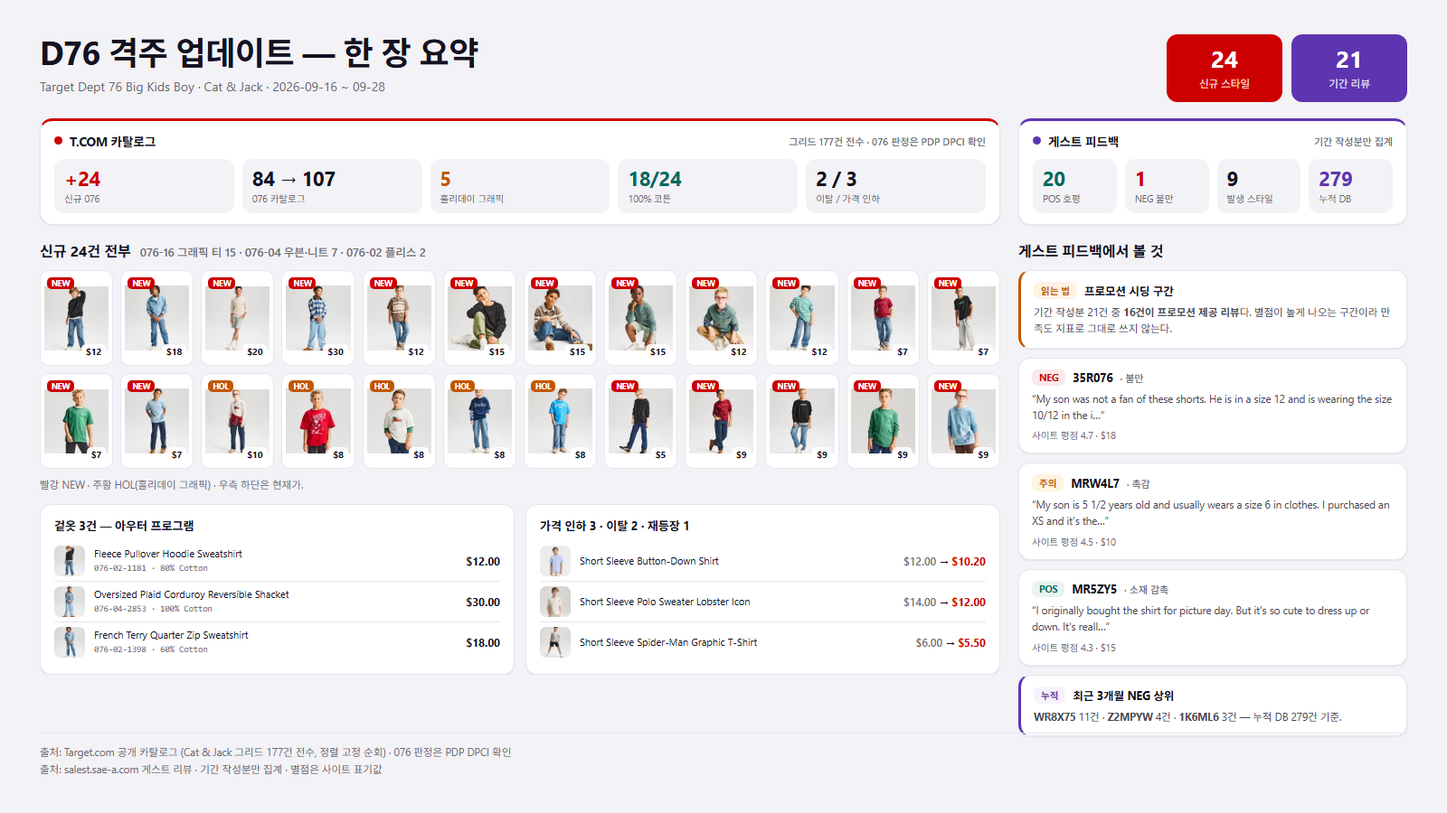
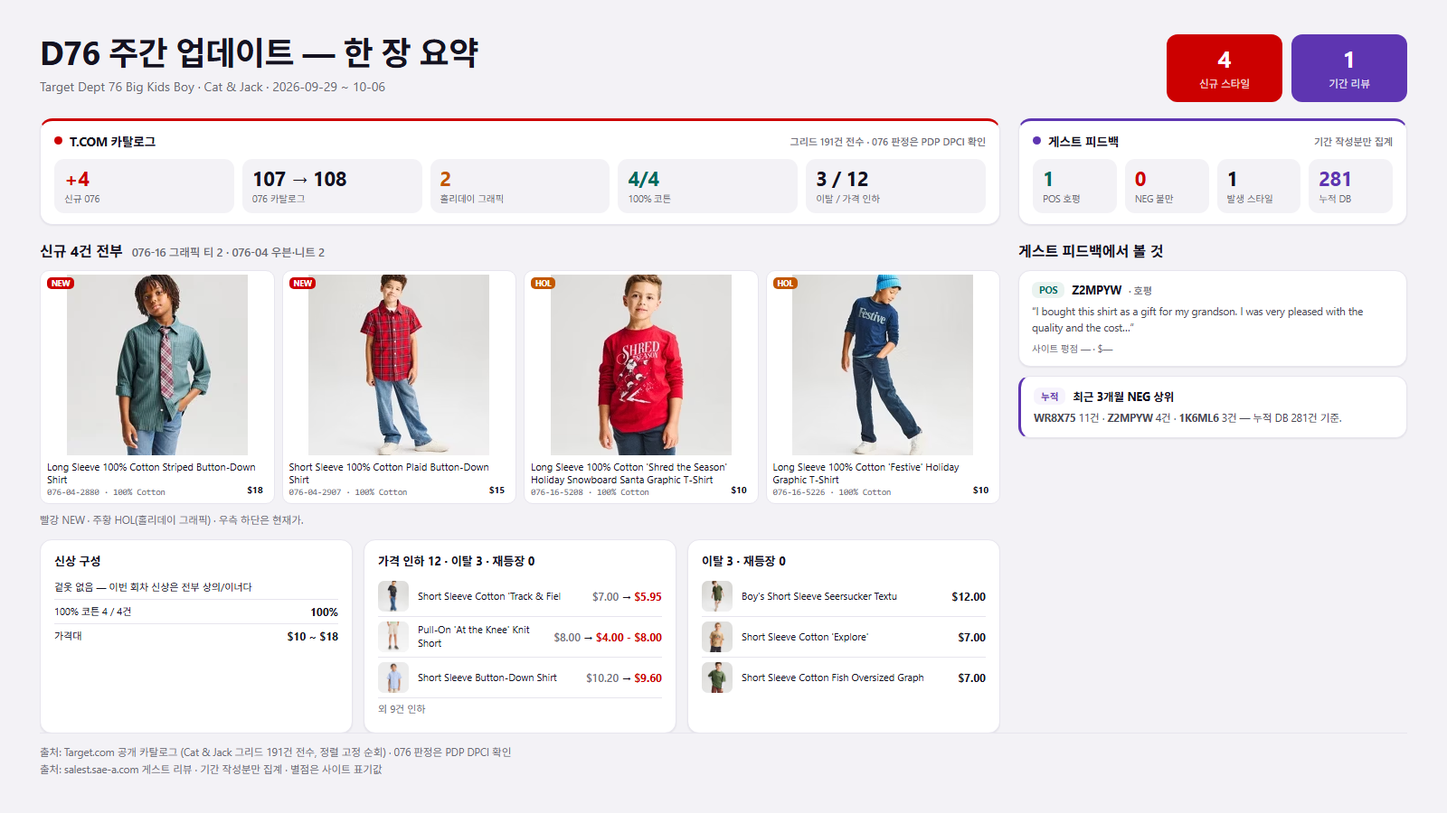
2026-10-06 회차 — Guest Feedback 리포트 + 한 장 요약
GF: Boys(09-29~10-06) · Girls(10-01~10-06) 두 리포트.
  ⚠ 원천에 약 1주일 보고 지연이 있어 기간 작성분이 각 1건뿐이다.
  숨기지 않고 리포트 맨 위에 그 사실과 "건수를 체감 반응으로 읽지 말 것"을 적었다.
  백필은 회차 날짜와 섞이지 않게 분리 표기(Boys 1 · Girls 2).
  경향은 「누적으로 보는 주의 스타일」(최근 3개월 NEG 2건 이상)로 본다.

한 장 요약: reports/bigboys/onepager.png 갱신 (최신 한 장만 유지).
  제목의 '격주/주간'을 실제 간격에서 자동으로 뽑도록 생성기를 고쳤다 —
  박아 두면 1주 회차에서 제목이 사실과 어긋난다.

diff --git a/reports/girls-feedback/Dept32_205_Feedback_Report_2026-10-01_to_2026-10-06.html b/reports/girls-feedback/Dept32_205_Feedback_Report_2026-10-01_to_2026-10-06.html
@@ -1,0 +1,106 @@
+<!DOCTYPE html>
+<html lang="ko">
+<head>
+<meta charset="utf-8">
+<meta name="viewport" content="width=device-width,initial-scale=1">
+<title>D76 · Girls GF 10-01~10-06</title>
+<link rel="icon" href="/Bigkids-Knit/favicon.svg">
+<style>
+:root{--ink:#1d1c22;--body:#4a4954;--sub:#6a6a72;--muted:#6e6d77;--bg:#f3f2f6;--card:#fff;--bar:#1b1b22;--line:#e7e5ee;--tcom:#CC0000;--gf:#5e35b1;--man:#00695c;--tool:#0277bd;--amber:#ef6c00}
+
+body{font-family:-apple-system, "Segoe UI", "Apple SD Gothic Neo", "Noto Sans KR", sans-serif;background:#f3f2f6;margin:0;color:#222}
+.wrap{max-width:1080px;margin:0 auto;padding:20px}
+header{background:#f6f3fc;color:#4527a0;border-radius:14px;padding:26px 30px;margin-bottom:18px}
+header h1{margin:0 0 8px;font-size:22px;color:var(--ink)} header .meta{font-size:13px;color:var(--sub)}
+.kpis{display:grid;grid-template-columns:repeat(auto-fit,minmax(180px,1fr));gap:12px;margin-bottom:20px}
+.kpi{background:#fff;border-radius:14px;padding:16px 18px;box-shadow:0 1px 2px rgba(20,18,30,.06)}
+.kpi.o{border-color:#ef6c00}.kpi.g{border-color:#00695c}.kpi.r{border-color:#CC0000}
+.kpi .v{font-size:24px;font-weight:700}.kpi .l{font-size:12px;color:#666}
+.insight{background:#fff8ee;border-left:4px solid #ef6c00;border-radius:10px;padding:16px 20px;margin-bottom:18px;font-size:14px;line-height:1.7}
+.nav{margin-bottom:18px;line-height:2.2}
+.nav a{display:inline-block;padding:3px 10px;border-radius:20px;font-family:"SF Mono", Consolas, monospace;font-size:12px;text-decoration:none;margin-right:4px}
+.nav a.high{background:#fbe4e4;color:#CC0000}.nav a.medium{background:#fff3cd;color:#856404}.nav a.low{background:#ddedea;color:#0a6e57}
+table.pt{width:100%;border-collapse:collapse;background:#fff;border-radius:10px;overflow:hidden;margin-bottom:18px;font-size:13px}
+table.pt th{background:#ede7f6;color:#4527a0;padding:9px 12px;text-align:left}table.pt td{padding:9px 12px;border-top:1px solid #eee}
+.sgroup{border-radius:16px;margin-bottom:16px;padding:18px 20px;background:#f3f2f6;box-shadow:none}
+.sgroup.pri-high{background:#fdf3f3}.sgroup.pri-medium{background:#fff8ee}.sgroup.pri-low{background:#eef6f5}
+.sg-head{display:flex;gap:14px;align-items:center;margin-bottom:10px}
+.thumb{width:60px;height:60px;border-radius:8px;object-fit:cover;background:#eee}
+.thumb.ph{display:flex;align-items:center;justify-content:center;color:#aaa;font-size:20px}
+.sno{font-family:"SF Mono", Consolas, monospace;font-size:18px;font-weight:700;color:#4527a0}
+.pri{font-size:11px;font-weight:700;padding:3px 8px;border-radius:8px;vertical-align:middle}
+.pri.high{background:#CC0000;color:#fff}.pri.medium{background:#c25700;color:#fff}.pri.low{background:#00695c;color:#fff}
+.chip{font-size:11px;padding:2px 8px;border-radius:10px;margin-right:5px}
+.chip.pos-c{background:#ddedea;color:#0a6e57}.chip.neg-c{background:#fbe4e4;color:#CC0000}
+.chip.tot{background:#ede7f6;color:#4527a0}.chip.avg{background:#e3f2fd;color:#0d47a1}.chip.price{background:#f5f5f5;color:#333}
+.review{border-radius:8px;padding:10px 12px;margin-bottom:8px;font-size:13px}
+.review.pos{background:#f7fbf7}.review.neg{background:#fef7f7}
+.r-meta{display:flex;gap:8px;align-items:center;margin-bottom:4px;font-size:12px}
+.r-date{color:#666}.badge{padding:1px 7px;border-radius:10px;font-size:10px;font-weight:700}
+.badge.pos-bg{background:#ddedea;color:#0a6e57}.badge.neg-bg{background:#fbe4e4;color:#CC0000}
+.r-cat{background:#f0f0f0;padding:1px 7px;border-radius:10px;font-size:10px}
+.stars{color:#c96a00;font-size:12px}.stars .empty{color:#bcbbc6}
+.r-title{font-weight:600;margin-bottom:2px}.r-body{line-height:1.55}
+.r-flex{display:flex;gap:10px}.r-main{flex:1}
+.rp{width:74px;height:74px;object-fit:cover;border-radius:8px}
+.pats{margin-top:5px}.pat{background:#fff3cd;color:#856404;font-size:10px;padding:2px 7px;border-radius:10px;margin-right:4px}
+.cross{margin-top:5px;font-size:11px;color:#555}
+.chip-x{font-family:"SF Mono", Consolas, monospace;background:#ede7f6;color:#4527a0;padding:1px 7px;border-radius:10px;text-decoration:none;font-size:11px;margin-right:3px}
+h2{font-size:17px;margin:24px 0 10px}
+footer{color:#6a6a72;font-size:12px;margin:26px 0 10px;text-align:center}
+:focus-visible{outline:2px solid var(--tool);outline-offset:2px;border-radius:8px}
+.topbar{position:sticky;top:0;z-index:100;background:var(--bar,#1b1b22);color:#fff;font-family:-apple-system,'Segoe UI','Apple SD Gothic Neo','Noto Sans KR',sans-serif;font-size:13px;padding:11px 20px;display:flex;gap:10px;align-items:center;flex-wrap:wrap}.topbar a{color:#fff;text-decoration:none}.topbar .brand{font-weight:700}.topbar .sep{opacity:.3}.topbar .live{margin-left:auto;font-size:12px;opacity:.55}@media(max-width:640px){.topbar{font-size:12px;padding:10px 14px}.topbar .live{display:none}}.fab{position:fixed;right:18px;bottom:18px;z-index:99;width:52px;height:52px;border-radius:50%;background:var(--bar,#1b1b22);color:#fff;display:flex;align-items:center;justify-content:center;font-size:20px;text-decoration:none;box-shadow:0 8px 22px rgba(20,18,30,.11)}
+
+/* 4b — 색 면 안의 리뷰 타일은 그림자 없음 (면 자체가 그룹을 만든다) */
+.sgroup .review{background:#fff;border-radius:14px;box-shadow:none}
+.sgroup .chip{background:#fff}
+
+.eyebrow{font-size:11px;letter-spacing:.16em;font-weight:700;margin-bottom:6px}
+
+.hist{margin-top:10px;border-top:1px solid #e7e5ee;padding-top:10px}
+.hist>summary{cursor:pointer;font-size:12.5px;font-weight:700;color:#4527a0;
+  list-style:none;padding:9px 12px;border-radius:10px;background:#f6f3fc;
+  display:flex;align-items:center;gap:8px}
+.hist>summary::-webkit-details-marker{display:none}
+.hist>summary::before{content:"▸";font-size:11px;transition:transform .15s}
+.hist[open]>summary::before{transform:rotate(90deg)}
+.hist>summary:hover{background:#efe9f9}
+.hist .hcount{margin-left:auto;font-weight:600;color:#6a6a72;font-size:11.5px}
+.hist .review{margin-top:9px}
+.badge.new-bg{background:#f6f3fc;color:#4527a0}
+
+.kpi.girl .v{color:#8e1246}
+.hero-g{background:#fdf1f6}
+.topbar .here{color:#f4a6c4}
+.dept-tag{font-size:10px;font-weight:700;color:#fff;background:#c2185b;border-radius:5px;padding:2px 6px;margin-left:6px}
+.dept-tag.d205{background:#6a1b9a}
+</style>
+</head>
+<body>
+<div class="topbar"><a class="brand" href="/Bigkids-Knit/">📊 Big Kids Hub</a><span class="sep">|</span><a class="here" href="/Bigkids-Knit/reports/girls-feedback/">💬 Girls Guest Feedback</a></div><a class="fab" href="/Bigkids-Knit/" title="Big Kids Hub">📊</a>
+<div class="wrap">
+<header><div class="eyebrow">GIRLS GUEST FEEDBACK · 회차 리포트</div><h1>👧 Dept 32 · 205 게스트 피드백 — 10/01 ~ 10/06</h1><div class="meta">기간: 2026-10-01 ~ 2026-10-06 · 수집일: 2026-10-06 · 브랜드: Cat &amp; Jack</div></header>
+<div class="kpis"><div class="kpi"><div class="v">1건</div><div class="l">기간 내 작성 리뷰 (이 밖에 이전 작성분 2건이 백필로 확인됨)</div></div><div class="kpi o"><div class="v">1개</div><div class="l">기간 내 코멘트 발생 스타일</div></div><div class="kpi g"><div class="v">1건</div><div class="l">POS 호평</div></div><div class="kpi r"><div class="v">0건</div><div class="l">NEG 불만</div></div></div>
+<div class="insight"><b>🔍 이번 회차를 읽는 법</b><br>1. <b>이번 회차는 간격이 1주다.</b> 직전 수집이 2026-09-30 였고 이번이 2026-10-06 다. 평소(격주)의 절반이라 모수 자체가 작다.<br>2. <b>그보다 중요한 건 원천에 보고 지연이 있다는 점이다.</b> 수집 시점 기준 가장 최근 리뷰가 <b>2026-10-04</b> — <b>2일 전</b>이다. 즉 최근 한 주에 달린 리뷰는 <b>아직 시스템에 들어오지 않았다</b>. <b>건수가 적은 것을 "리뷰가 안 달렸다" 로 읽으면 안 된다.</b><br>3. 그래서 이번 회차는 <b>판단 재료가 아니라 적재 기록</b>에 가깝다. 다음 회차(격주)에 이 기간 작성분이 함께 들어온다.<br>4. 누적 DB 는 <b>334건</b>이고, 최근 3개월 기준으로는 159건(POS 119 / NEG 40)이 쌓여 있다 — 경향은 아래 「누적으로 보는 주의 스타일」 로 본다.
+</div>
+<h2>📝 이번 수집분 3건</h2>
+<p class="note" style="margin:-4px 0 10px">기간 내 작성 (2026-10-01 ~ 2026-10-06)</p>
+<div class="sgroup"><div class="sg-head"><div><div class="sno">878MPL</div></div></div><div class="sg-cards"><div class="review "><div class="r-meta"><span class="r-date">26/10/04</span><span class="badge">POS</span><span class="r-cat">Value</span><span class="r-cat">D32</span><span class="stars">★★★★★</span></div><div class="r-flex"><div class="r-main"><div class="r-title">Love it!</div><div class="r-body">My daughter is about a size 10 in everything right now, ordered a Large and it’s the perfect amount of baggy, has some growing room (bonus,) but not too long on the arms! LOVE the print, and the price! Super cute and trendy! Well worth the price!</div></div></div></div></div></div>
+<p class="note" style="margin:14px 0 10px">이전 작성분 — 이번 수집에서 처음 잡힌 백필 2건 (회차 날짜와 섞이지 않게 따로 둔다)</p>
+<div class="sgroup"><div class="sg-head"><div><div class="sno">878MPL</div></div></div><div class="sg-cards"><div class="review "><div class="r-meta"><span class="r-date">26/09/17</span><span class="badge">POS</span><span class="r-cat">Quality</span><span class="r-cat">D32</span><span class="stars">★★★★★</span><span class="badge new-bg">PROMO</span></div><div class="r-flex"><div class="r-main"><div class="r-title">Comfy and versatile everyday sweatshirt</div><div class="r-body">This is a staple sweat shirt that will always be around for my daughter to bring to school as these colder days approach. It’s super soft and great quality with cute simple details with the speckles. The size a medium and fits great on my taller seven year old. The thickness is perfect and I’m super happy with this item!</div></div></div></div></div></div>
+<div class="sgroup"><div class="sg-head"><div><div class="sno">X0E2X8</div></div></div><div class="sg-cards"><div class="review "><div class="r-meta"><span class="r-date">26/09/26</span><span class="badge">POS</span><span class="r-cat">Comfort</span><span class="r-cat">D32</span><span class="stars">★★★★<span class="empty">☆</span></span><span class="badge new-bg">PROMO</span></div><div class="r-flex"><div class="r-main"><div class="r-title">Slightly cropped hooded Amour hoodie</div><div class="r-body">My daughter is 6 years old and is just starting to wear size medium (8) in girls. She’s 45.5 inches tall. This hoodie is a French terry, so it’s not super thick or hot which is great for our Texas weather. The hoodie sits right around her belly button. The shoulders seemed a little big as the seam sat more off the shoulder. She loved the heart on front and “Amour” in light pink floral on the back. It was soft and a comfy hoodie.</div></div></div></div></div></div>
+<h2>⚠ 누적으로 보는 주의 스타일 <span style="font-size:13px;font-weight:400;color:var(--sub,#6a6a72)">(최근 3개월 · NEG 2건 이상)</span></h2>
+<table class="pt"><tr><th>스타일</th><th>NEG</th><th>최근 3개월 전체</th></tr>
+<tr><td>L074Y3</td><td><b style="color:#CC0000">11건</b></td><td>15건</td></tr>
+<tr><td>E760X2</td><td><b style="color:#CC0000">5건</b></td><td>8건</td></tr>
+<tr><td>878MPL</td><td><b style="color:#CC0000">3건</b></td><td>13건</td></tr>
+<tr><td>X0E2X8</td><td><b style="color:#CC0000">2건</b></td><td>19건</td></tr>
+<tr><td>X0664R</td><td><b style="color:#CC0000">2건</b></td><td>2건</td></tr>
+<tr><td>0L2L42</td><td><b style="color:#CC0000">2건</b></td><td>5건</td></tr>
+<tr><td>L0GPYX</td><td><b style="color:#CC0000">2건</b></td><td>17건</td></tr>
+<tr><td>71LGL6</td><td><b style="color:#CC0000">2건</b></td><td>10건</td></tr>
+</table>
+<div class="note" style="margin-top:26px">출처: salest.sae-a.com 게스트 리뷰 (Dept 32 · 205, 수집일 2026-10-06) · 적재 기준: NEG 전체 + POS 본문 30자 이상 · 누적 DB 334행<br>⚠ 원천의 가장 최근 리뷰가 2026-10-04 다 — 약 1주일의 보고 지연이 있다. 건수를 그대로 체감 반응으로 읽지 말 것.<br>중복 제거 키에서 프로모션 접두사를 떼도록 이번 회차에 고쳤다 — 같은 스타일·같은 날짜의 프로모션 리뷰가 1건으로 뭉개지던 문제였다.</div>
+</div>
+</body>
+</html>

diff --git a/reports/feedback/Dept76_Feedback_Report_2026-09-29_to_2026-10-06.html b/reports/feedback/Dept76_Feedback_Report_2026-09-29_to_2026-10-06.html
@@ -1,0 +1,94 @@
+<!DOCTYPE html>
+<html lang="ko">
+<head>
+<meta charset="utf-8">
+<meta name="viewport" content="width=device-width,initial-scale=1">
+<title>D76 · GF 09-29~10-06</title>
+<link rel="icon" href="/Bigkids-Knit/favicon.svg">
+<style>
+:root{--ink:#1d1c22;--body:#4a4954;--sub:#6a6a72;--muted:#6e6d77;--bg:#f3f2f6;--card:#fff;--bar:#1b1b22;--line:#e7e5ee;--tcom:#CC0000;--gf:#5e35b1;--man:#00695c;--tool:#0277bd;--amber:#ef6c00}
+
+body{font-family:-apple-system, "Segoe UI", "Apple SD Gothic Neo", "Noto Sans KR", sans-serif;background:#f3f2f6;margin:0;color:#222}
+.wrap{max-width:1080px;margin:0 auto;padding:20px}
+header{background:#f6f3fc;color:#4527a0;border-radius:14px;padding:26px 30px;margin-bottom:18px}
+header h1{margin:0 0 8px;font-size:22px;color:var(--ink)} header .meta{font-size:13px;color:var(--sub)}
+.kpis{display:grid;grid-template-columns:repeat(auto-fit,minmax(180px,1fr));gap:12px;margin-bottom:20px}
+.kpi{background:#fff;border-radius:14px;padding:16px 18px;box-shadow:0 1px 2px rgba(20,18,30,.06)}
+.kpi.o{border-color:#ef6c00}.kpi.g{border-color:#00695c}.kpi.r{border-color:#CC0000}
+.kpi .v{font-size:24px;font-weight:700}.kpi .l{font-size:12px;color:#666}
+.insight{background:#fff8ee;border-left:4px solid #ef6c00;border-radius:10px;padding:16px 20px;margin-bottom:18px;font-size:14px;line-height:1.7}
+.nav{margin-bottom:18px;line-height:2.2}
+.nav a{display:inline-block;padding:3px 10px;border-radius:20px;font-family:"SF Mono", Consolas, monospace;font-size:12px;text-decoration:none;margin-right:4px}
+.nav a.high{background:#fbe4e4;color:#CC0000}.nav a.medium{background:#fff3cd;color:#856404}.nav a.low{background:#ddedea;color:#0a6e57}
+table.pt{width:100%;border-collapse:collapse;background:#fff;border-radius:10px;overflow:hidden;margin-bottom:18px;font-size:13px}
+table.pt th{background:#ede7f6;color:#4527a0;padding:9px 12px;text-align:left}table.pt td{padding:9px 12px;border-top:1px solid #eee}
+.sgroup{border-radius:16px;margin-bottom:16px;padding:18px 20px;background:#f3f2f6;box-shadow:none}
+.sgroup.pri-high{background:#fdf3f3}.sgroup.pri-medium{background:#fff8ee}.sgroup.pri-low{background:#eef6f5}
+.sg-head{display:flex;gap:14px;align-items:center;margin-bottom:10px}
+.thumb{width:60px;height:60px;border-radius:8px;object-fit:cover;background:#eee}
+.thumb.ph{display:flex;align-items:center;justify-content:center;color:#aaa;font-size:20px}
+.sno{font-family:"SF Mono", Consolas, monospace;font-size:18px;font-weight:700;color:#4527a0}
+.pri{font-size:11px;font-weight:700;padding:3px 8px;border-radius:8px;vertical-align:middle}
+.pri.high{background:#CC0000;color:#fff}.pri.medium{background:#c25700;color:#fff}.pri.low{background:#00695c;color:#fff}
+.chip{font-size:11px;padding:2px 8px;border-radius:10px;margin-right:5px}
+.chip.pos-c{background:#ddedea;color:#0a6e57}.chip.neg-c{background:#fbe4e4;color:#CC0000}
+.chip.tot{background:#ede7f6;color:#4527a0}.chip.avg{background:#e3f2fd;color:#0d47a1}.chip.price{background:#f5f5f5;color:#333}
+.review{border-radius:8px;padding:10px 12px;margin-bottom:8px;font-size:13px}
+.review.pos{background:#f7fbf7}.review.neg{background:#fef7f7}
+.r-meta{display:flex;gap:8px;align-items:center;margin-bottom:4px;font-size:12px}
+.r-date{color:#666}.badge{padding:1px 7px;border-radius:10px;font-size:10px;font-weight:700}
+.badge.pos-bg{background:#ddedea;color:#0a6e57}.badge.neg-bg{background:#fbe4e4;color:#CC0000}
+.r-cat{background:#f0f0f0;padding:1px 7px;border-radius:10px;font-size:10px}
+.stars{color:#c96a00;font-size:12px}.stars .empty{color:#bcbbc6}
+.r-title{font-weight:600;margin-bottom:2px}.r-body{line-height:1.55}
+.r-flex{display:flex;gap:10px}.r-main{flex:1}
+.rp{width:74px;height:74px;object-fit:cover;border-radius:8px}
+.pats{margin-top:5px}.pat{background:#fff3cd;color:#856404;font-size:10px;padding:2px 7px;border-radius:10px;margin-right:4px}
+.cross{margin-top:5px;font-size:11px;color:#555}
+.chip-x{font-family:"SF Mono", Consolas, monospace;background:#ede7f6;color:#4527a0;padding:1px 7px;border-radius:10px;text-decoration:none;font-size:11px;margin-right:3px}
+h2{font-size:17px;margin:24px 0 10px}
+footer{color:#6a6a72;font-size:12px;margin:26px 0 10px;text-align:center}
+:focus-visible{outline:2px solid var(--tool);outline-offset:2px;border-radius:8px}
+.topbar{position:sticky;top:0;z-index:100;background:var(--bar,#1b1b22);color:#fff;font-family:-apple-system,'Segoe UI','Apple SD Gothic Neo','Noto Sans KR',sans-serif;font-size:13px;padding:11px 20px;display:flex;gap:10px;align-items:center;flex-wrap:wrap}.topbar a{color:#fff;text-decoration:none}.topbar .brand{font-weight:700}.topbar .sep{opacity:.3}.topbar .live{margin-left:auto;font-size:12px;opacity:.55}@media(max-width:640px){.topbar{font-size:12px;padding:10px 14px}.topbar .live{display:none}}.fab{position:fixed;right:18px;bottom:18px;z-index:99;width:52px;height:52px;border-radius:50%;background:var(--bar,#1b1b22);color:#fff;display:flex;align-items:center;justify-content:center;font-size:20px;text-decoration:none;box-shadow:0 8px 22px rgba(20,18,30,.11)}
+
+/* 4b — 색 면 안의 리뷰 타일은 그림자 없음 (면 자체가 그룹을 만든다) */
+.sgroup .review{background:#fff;border-radius:14px;box-shadow:none}
+.sgroup .chip{background:#fff}
+
+.eyebrow{font-size:11px;letter-spacing:.16em;font-weight:700;margin-bottom:6px}
+
+.hist{margin-top:10px;border-top:1px solid #e7e5ee;padding-top:10px}
+.hist>summary{cursor:pointer;font-size:12.5px;font-weight:700;color:#4527a0;
+  list-style:none;padding:9px 12px;border-radius:10px;background:#f6f3fc;
+  display:flex;align-items:center;gap:8px}
+.hist>summary::-webkit-details-marker{display:none}
+.hist>summary::before{content:"▸";font-size:11px;transition:transform .15s}
+.hist[open]>summary::before{transform:rotate(90deg)}
+.hist>summary:hover{background:#efe9f9}
+.hist .hcount{margin-left:auto;font-weight:600;color:#6a6a72;font-size:11.5px}
+.hist .review{margin-top:9px}
+.badge.new-bg{background:#f6f3fc;color:#4527a0}
+</style>
+</head>
+<body>
+<div class="topbar"><a class="brand" href="/Bigkids-Knit/">📊 Big Kids Hub</a><span class="sep">|</span><a class="here" href="/Bigkids-Knit/reports/feedback/">💬 Guest Feedback 목록</a></div><a class="fab" href="/Bigkids-Knit/" title="Big Kids Hub">📊</a>
+<div class="wrap">
+<header><div class="eyebrow">GUEST FEEDBACK · 회차 리포트</div><h1>📍 Dept 76 게스트 피드백 — 09/29 ~ 10/06</h1><div class="meta">기간: 2026-09-29 ~ 2026-10-06 · 수집일: 2026-10-06 · 브랜드: Cat &amp; Jack</div></header>
+<div class="kpis"><div class="kpi"><div class="v">1건</div><div class="l">기간 내 작성 리뷰 (이 밖에 이전 작성분 1건이 백필로 확인됨)</div></div><div class="kpi o"><div class="v">1개</div><div class="l">기간 내 코멘트 발생 스타일</div></div><div class="kpi g"><div class="v">1건</div><div class="l">POS 호평</div></div><div class="kpi r"><div class="v">0건</div><div class="l">NEG 불만</div></div></div>
+<div class="insight"><b>🔍 이번 회차를 읽는 법</b><br>1. <b>이번 회차는 간격이 1주다.</b> 직전 수집이 2026-09-28 였고 이번이 2026-10-06 다. 평소(격주)의 절반이라 모수 자체가 작다.<br>2. <b>그보다 중요한 건 원천에 보고 지연이 있다는 점이다.</b> 수집 시점 기준 가장 최근 리뷰가 <b>2026-10-01</b> — <b>5일 전</b>이다. 즉 최근 한 주에 달린 리뷰는 <b>아직 시스템에 들어오지 않았다</b>. <b>건수가 적은 것을 "리뷰가 안 달렸다" 로 읽으면 안 된다.</b><br>3. 그래서 이번 회차는 <b>판단 재료가 아니라 적재 기록</b>에 가깝다. 다음 회차(격주)에 이 기간 작성분이 함께 들어온다.<br>4. 누적 DB 는 <b>281건</b>이고, 최근 3개월 기준으로는 167건(POS 137 / NEG 30)이 쌓여 있다 — 경향은 아래 「누적으로 보는 주의 스타일」 로 본다.
+</div>
+<h2>📝 이번 수집분 2건</h2>
+<p class="note" style="margin:-4px 0 10px">기간 내 작성 (2026-09-29 ~ 2026-10-06)</p>
+<div class="sgroup"><div class="sg-head"><div><div class="sno">Z2MPYW</div></div></div><div class="sg-cards"><div class="review "><div class="r-meta"><span class="r-date">26/10/01</span><span class="badge">POS</span><span class="r-cat">Value</span><span class="r-cat">D76</span><span class="stars">★★★★★</span></div><div class="r-flex"><div class="r-main"><div class="r-body">I bought this shirt as a gift for my grandson. I was very pleased with the quality and the cost. He loved the shirt.</div></div></div></div></div></div>
+<p class="note" style="margin:14px 0 10px">이전 작성분 — 이번 수집에서 처음 잡힌 백필 1건 (회차 날짜와 섞이지 않게 따로 둔다)</p>
+<div class="sgroup"><div class="sg-head"><div><div class="sno">35R076</div></div></div><div class="sg-cards"><div class="review "><div class="r-meta"><span class="r-date">26/09/23</span><span class="badge">POS</span><span class="r-cat">Comfort</span><span class="r-cat">D76</span><span class="stars">★★★★★</span><span class="badge new-bg">PROMO</span></div><div class="r-flex"><div class="r-main"><div class="r-title">Very comfortable basketball shorts</div><div class="r-body">I bought these basketball shorts for my 4 year old son who weighs 33lbs and is wearing a size 4/5. They are a tad bit big on him- but they fit him fine in the waist, they’re just a bit long. They are a relaxed fit. They were easy to pull on and off and he could dress himself. The material is lightweight and breathable with the mesh holes. These are great for sports, or even sleeping in at night.</div></div></div></div></div></div>
+<h2>⚠ 누적으로 보는 주의 스타일 <span style="font-size:13px;font-weight:400;color:var(--sub,#6a6a72)">(최근 3개월 · NEG 2건 이상)</span></h2>
+<table class="pt"><tr><th>스타일</th><th>NEG</th><th>최근 3개월 전체</th></tr>
+<tr><td>WR8X75</td><td><b style="color:#CC0000">11건</b></td><td>14건</td></tr>
+<tr><td>Z2MPYW</td><td><b style="color:#CC0000">4건</b></td><td>18건</td></tr>
+<tr><td>1K6ML6</td><td><b style="color:#CC0000">3건</b></td><td>12건</td></tr>
+</table>
+<div class="note" style="margin-top:26px">출처: salest.sae-a.com 게스트 리뷰 (Dept 76, 수집일 2026-10-06) · 적재 기준: NEG 전체 + POS 본문 30자 이상 · 누적 DB 281행<br>⚠ 원천의 가장 최근 리뷰가 2026-10-01 다 — 약 1주일의 보고 지연이 있다. 건수를 그대로 체감 반응으로 읽지 말 것.<br>중복 제거 키에서 프로모션 접두사를 떼도록 이번 회차에 고쳤다 — 같은 스타일·같은 날짜의 프로모션 리뷰가 1건으로 뭉개지던 문제였다.</div>
+</div>
+</body>
+</html>

diff --git a/reports/girls-feedback/index.html b/reports/girls-feedback/index.html
@@ -60,8 +60,9 @@ td.n,th.n{text-align:right;font-variant-numeric:tabular-nums}
 <a class="fab" href="/Bigkids-Knit/" title="Big Kids Hub">📊</a>
 <div class="wrap">
 <div class="hero"><div class="eyebrow">GIRLS GUEST FEEDBACK · 격주 트래킹</div><h1>💬 Girls 게스트 피드백</h1><div class="meta">salest.sae-a.com 게스트 리뷰 · Dept 32 · 205 · POS/NEG · 패턴 연계성 · 스타일별 코멘트</div></div>
-<h2>최신 회차</h2>
-<a class="round" href="Dept32_205_Feedback_Report_2026-04-01_to_2026-09-30.html"><div class="head"><div class="t">2026-09-30 · 기준선</div><span class="latest">LATEST</span></div><div class="d">첫 수집 — 최근 6개월치(4/1~9/30)를 한 번에 쌓았습니다. 다음 회차부터는 직전 수집 이후 작성분만 다룹니다.</div><div class="foot"><div><b>331</b><span>리뷰</span></div><div><b>65</b><span>스타일</span></div><div><b>255</b><span>POS</span></div><div><b>76</b><span>NEG</span></div></div></a>
+<h2>회차</h2>
+<a class="round" href="Dept32_205_Feedback_Report_2026-10-01_to_2026-10-06.html"><div class="head"><div class="t">2026-10-01 ~ 10-06</div><span class="latest">LATEST</span></div><div class="d">1주 회차 · 기간 작성 1건 + 백필 2건 — 원천에 약 1주일 보고 지연이 있어 모수가 작다</div><div class="foot"><div><b>1</b><span>기간 작성</span></div><div><b>2</b><span>백필</span></div><div><b>0</b><span>NEG</span></div><div><b>334</b><span>누적 DB</span></div></div></a>
+<a class="round" href="Dept32_205_Feedback_Report_2026-04-01_to_2026-09-30.html"><div class="head"><div class="t">2026-09-30 · 기준선</div></div><div class="d">첫 수집 — 최근 6개월치(4/1~9/30)를 한 번에 쌓았습니다. 다음 회차부터는 직전 수집 이후 작성분만 다룹니다.</div><div class="foot"><div><b>331</b><span>리뷰</span></div><div><b>65</b><span>스타일</span></div><div><b>255</b><span>POS</span></div><div><b>76</b><span>NEG</span></div></div></a>
 <div class="note">적재 기준은 Boys 와 같습니다 — NEG 전체 + POS 본문 30자 이상, 키 (스타일·작성일·본문 앞 60자)로 중복 제거.<br>프로모션 제공 리뷰가 섞여 있어 평균 별점을 그대로 만족도로 읽지 않습니다.</div>
 </div>
 </body>

diff --git a/reports/feedback/index.html b/reports/feedback/index.html
@@ -84,6 +84,7 @@ h2{font-size:16px;font-weight:700;color:var(--ink);margin:26px 2px 12px}
 </div>
 
 <h2>상시 대시보드</h2>
+<a class="round" href="Dept76_Feedback_Report_2026-09-29_to_2026-10-06.html"><div class="head"><div class="t">2026-09-29 ~ 10-06</div><span class="latest">LATEST</span></div><div class="d">1주 회차 · 기간 작성 1건 + 백필 1건 — 원천에 약 1주일 보고 지연이 있어 모수가 작다</div><div class="foot"><div><b>1</b><span>기간 작성</span></div><div><b>1</b><span>백필</span></div><div><b>0</b><span>NEG</span></div><div><b>281</b><span>누적 DB</span></div></div></a>
 <a class="round" href="Dept76_Feedback_Brief.html">
   <div class="head">
     <div class="t">📌 누적 브리핑</div>
@@ -96,7 +97,7 @@ h2{font-size:16px;font-weight:700;color:var(--ink);margin:26px 2px 12px}
 <a class="round" href="Dept76_Feedback_Report_2026-09-16_to_2026-09-28.html">
   <div class="head">
     <div class="t">2026-09-16 ~ 09-28</div>
-    <span class="latest">LATEST</span>
+    
   </div>
   <div class="d">신규 가을 스타일에 프로모션 리뷰 집중 · 주의: 35R076 메시 촉감 · P6P7YE 저지 비침</div>
   <div class="foot">

diff --git a/reports/bigboys/index.html b/reports/bigboys/index.html
@@ -121,7 +121,7 @@ h2{font-size:16px;font-weight:700;color:var(--ink);margin:26px 2px 12px}
   <a href="onepager.png" target="_blank" rel="noopener"
      title="원본 크기로 열기 (1600&times;900)">
     <img src="onepager.png" width="1600" height="900"
-         alt="2026-09-28 회차 한 장 요약 — T.COM 신상 24건과 게스트 리뷰 21건을 한 화면에 정리한 이미지">
+         alt="2026-10-06 회차 한 장 요약 — T.COM 신상 24건과 게스트 리뷰 21건을 한 화면에 정리한 이미지">
   </a>
   <div class="cap">
     이번 회차(2026-10-06)를 한 장에 모았습니다 &middot; 눌러서 원본 크기로 &middot;
